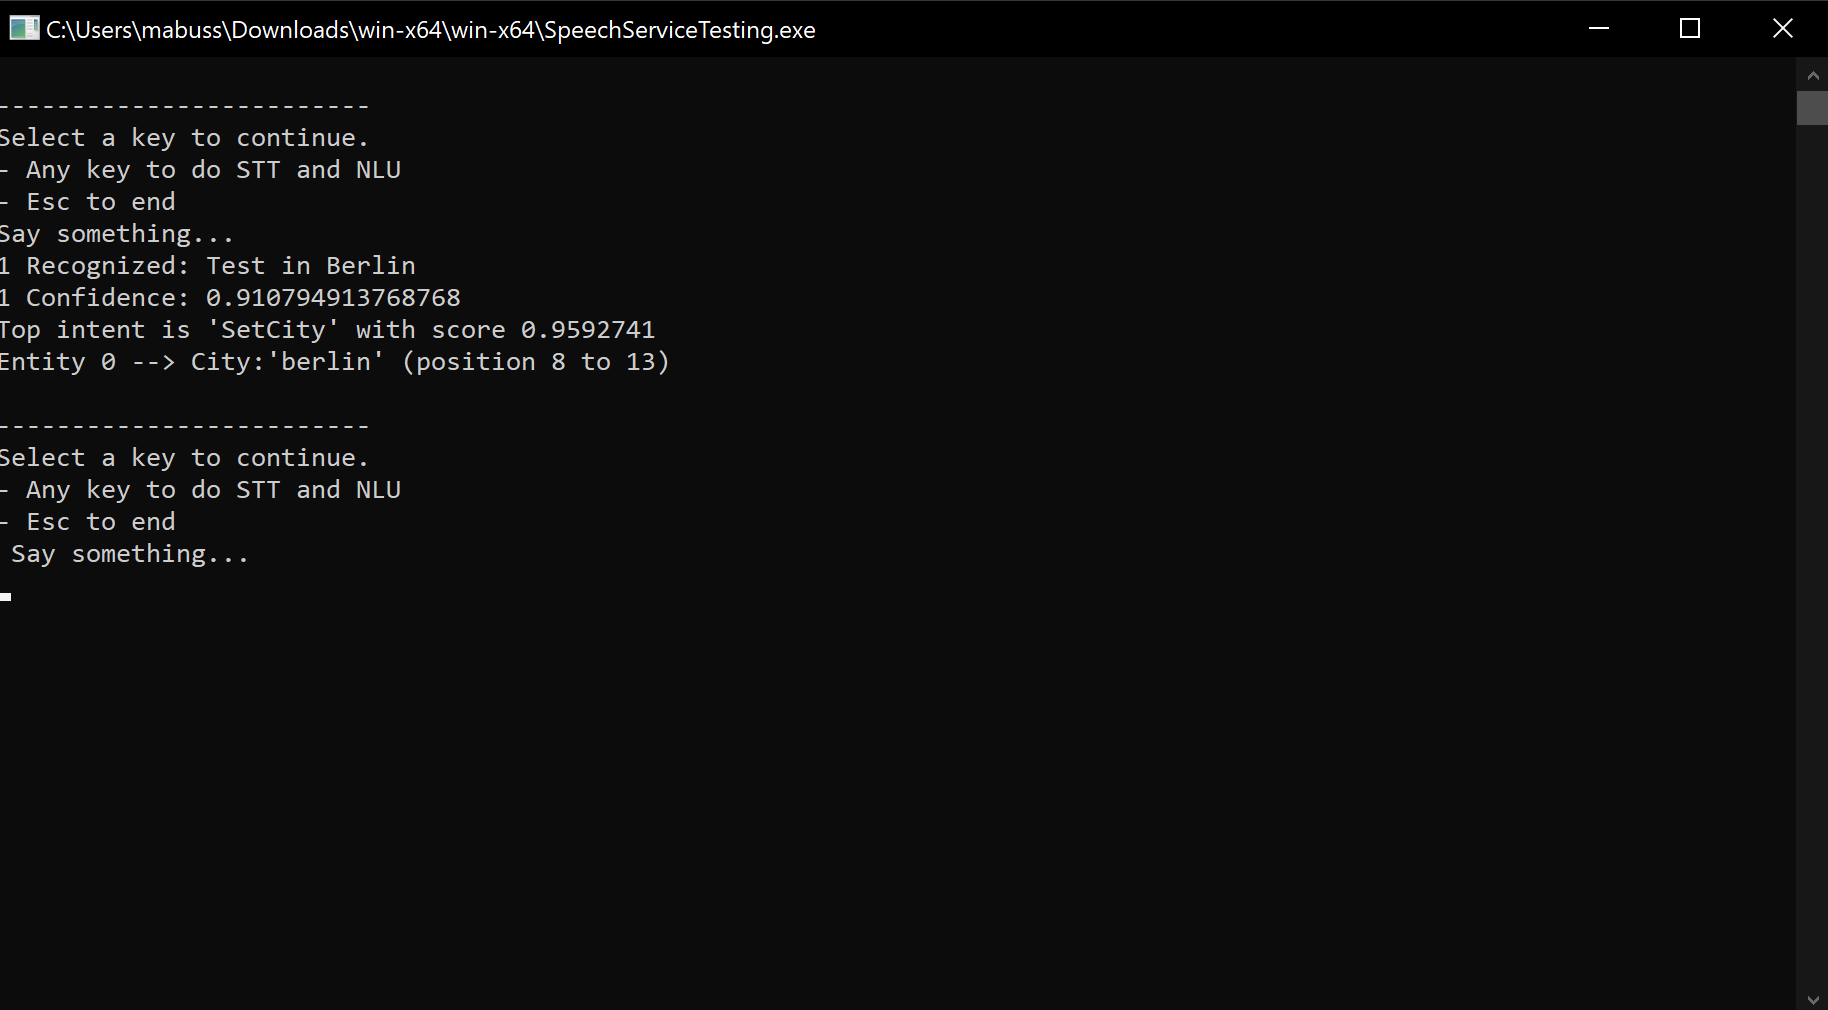
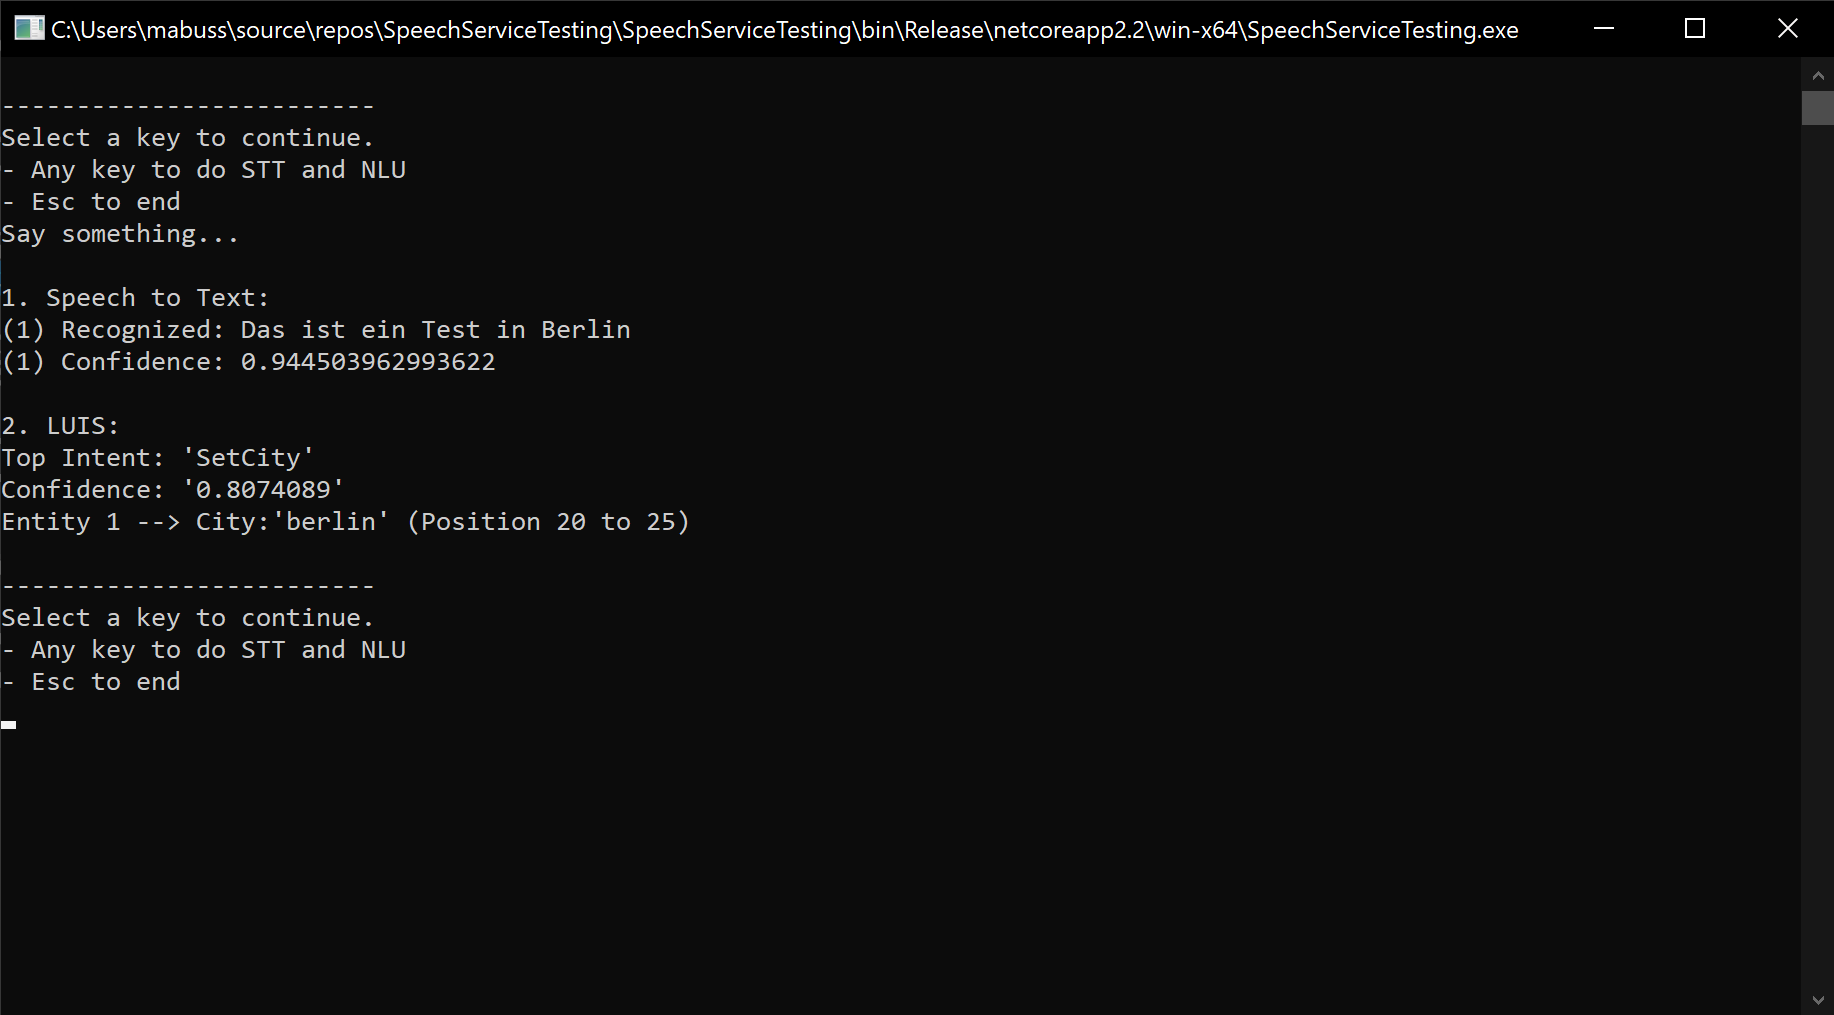
Visual changes

Changed region(s): [[0.0, 0.1228, 0.3742, 0.3683], [0.0, 0.399, 0.3742, 0.6752], [0.0, 0.0, 0.8107, 0.0614]]

diff --git a/SpeechServiceTesting/LanguageUnderstanding.cs b/SpeechServiceTesting/LanguageUnderstanding.cs
@@ -23,13 +23,16 @@ namespace SpeechServiceTesting
 
             var prediction = new Prediction(luisClient);
             var result = prediction.ResolveWithHttpMessagesAsync(appId, query, timezoneOffset, verbose, staging, spellCheck, bingSpellCheckKey, log);
-            
+
             // display results
-            Console.WriteLine("Top intent is '{0}' with score {1}", result.Result.Body.TopScoringIntent.Intent, result.Result.Body.TopScoringIntent.Score);
-            var i = 0;
+            Console.WriteLine($"");
+            Console.WriteLine($"2. LUIS:");
+            Console.WriteLine("Top Intent: '{0}'", result.Result.Body.TopScoringIntent.Intent);
+            Console.WriteLine("Confidence: '{0}'", result.Result.Body.TopScoringIntent.Score);
+            var i = 1;
             foreach (var entity in result.Result.Body.Entities)
             {
-                Console.WriteLine("Entity {0} --> {1}:'{2}' (position {3} to {4})", i, entity.Type, entity.Entity, entity.StartIndex, entity.EndIndex);
+                Console.WriteLine("Entity {0} --> {1}:'{2}' (Position {3} to {4})", i, entity.Type, entity.Entity, entity.StartIndex, entity.EndIndex);
             }
             
             return result;

diff --git a/SpeechServiceTesting/SpeechToText.cs b/SpeechServiceTesting/SpeechToText.cs
@@ -26,13 +26,15 @@ namespace SpeechServiceTesting
                 // Checks result.
                 if (result.Reason == ResultReason.RecognizedSpeech)
                 {
+                    Console.WriteLine($"");
+                    Console.WriteLine($"1. Speech to Text:");
                     if (detailedOutput)
                     {
                         var i = 1;
                         foreach (var item in result.Best())
                         {
-                            Console.WriteLine($"{i} Recognized: {item.MaskedNormalizedForm}");
-                            Console.WriteLine($"{i} Confidence: {item.Confidence}");
+                            Console.WriteLine($"({i}) Recognized: {item.MaskedNormalizedForm}");
+                            Console.WriteLine($"({i}) Confidence: {item.Confidence}");
                             i++;
                         }
                     }

diff --git a/SpeechServiceTesting/Program.cs b/SpeechServiceTesting/Program.cs
@@ -1,6 +1,4 @@
 using Microsoft.Extensions.Configuration;
-using Microsoft.Extensions.DependencyInjection;
-using Microsoft.Extensions.Logging;
 using System;
 using System.IO;
 using System.Text.RegularExpressions;
